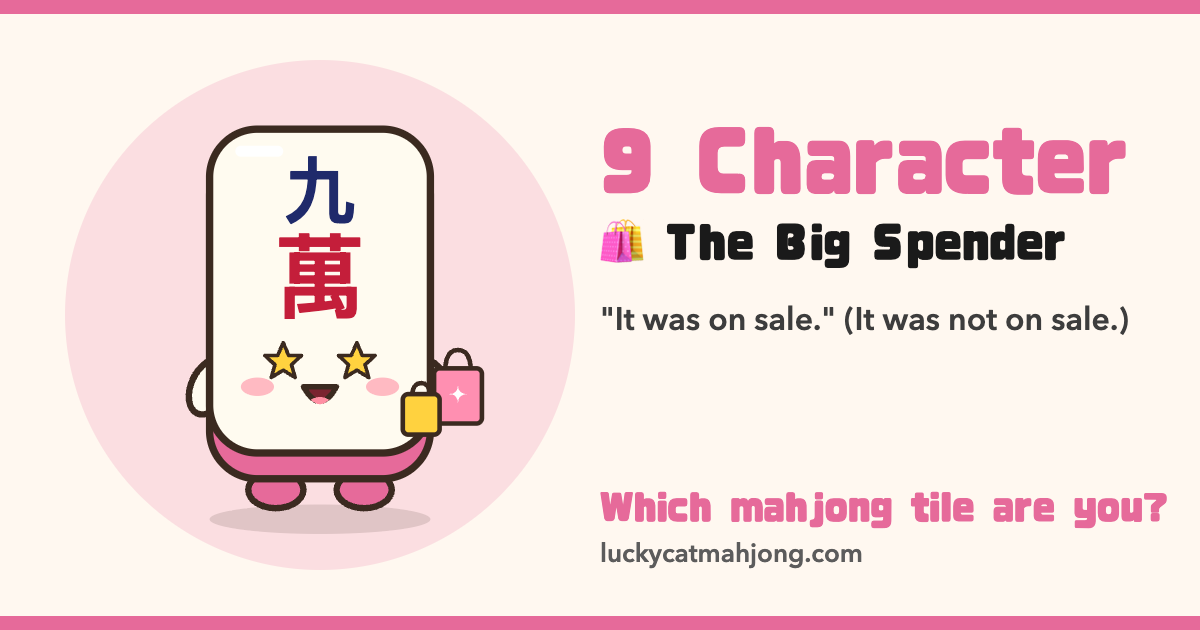
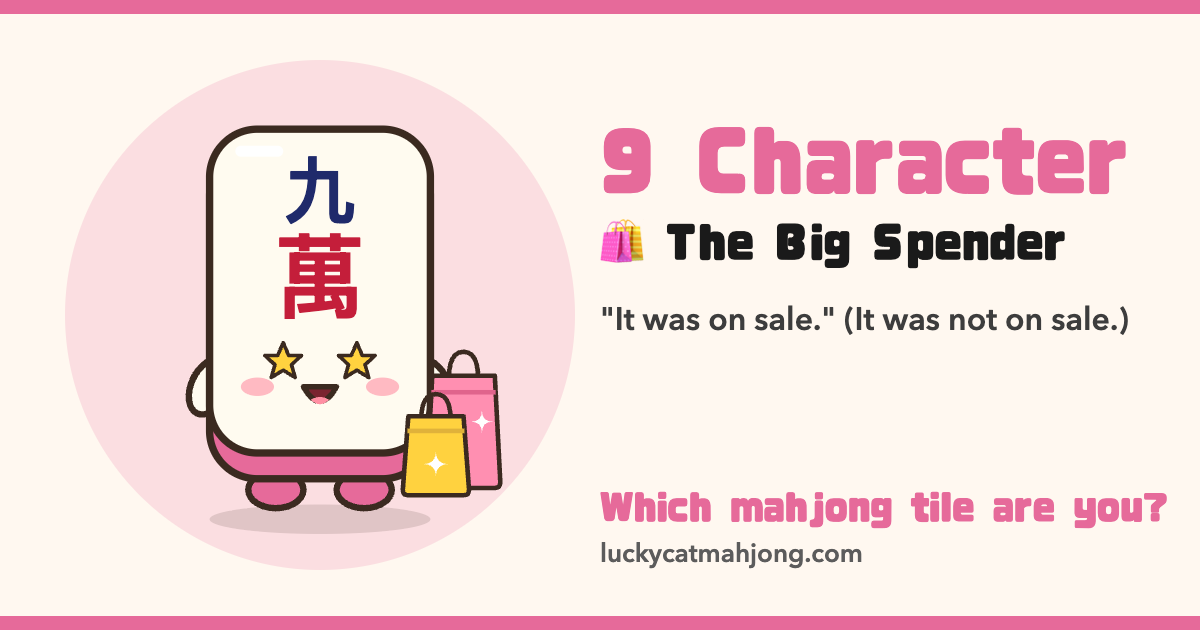
Redraw the Big Spender's shopping bags
Bigger tapered paper bags with folded tops and rope handles, standing
on the ground beside the tile, replace the small boxes floating at
its side, in the quiz art and the tile's link preview.

Changed region(s): [[0.3083, 0.5429, 0.4317, 0.8143]]

diff --git a/js/tile-quiz-art.js b/js/tile-quiz-art.js
@@ -334,11 +334,16 @@
         '<circle cx="120" cy="27" r="3" fill="#3FA34D" ' + stroke(1.5) + '/>';
     },
     shoppingBags: function () {
-      return '<path d="M168 156 Q168 144 175 144 Q182 144 182 156" fill="none" ' + stroke(2.5) + '/>' +
-        '<rect x="162" y="154" width="26" height="30" rx="3" fill="#FF8FB1" ' + stroke(2.5) + '/>' +
-        '<path d="M150 170 Q150 162 155 162 Q160 162 160 170" fill="none" ' + stroke(2.5) + '/>' +
-        '<rect x="145" y="168" width="20" height="22" rx="3" fill="#FFD23F" ' + stroke(2.5) + '/>' +
-        sparkle(175, 168, 5, '#fff');
+      // Two tapered paper bags with folded tops and rope handles, standing
+      // on the ground beside the tile.
+      return '<path d="M170 160 Q170 145 178 145 Q186 145 186 160" fill="none" ' + stroke(2.5) + '/>' +
+        '<path d="M161 158 H195 L198 216 Q198 219 195 219 H161 Q158 219 158 216Z" fill="#FF8FB1" ' + stroke(2.5) + '/>' +
+        '<path d="M160.5 167 H195.5" fill="none" stroke="#E0648C" stroke-width="2.5"/>' +
+        sparkle(188, 183, 6, '#fff') +
+        '<path d="M155 182 Q155 168 163 168 Q171 168 171 182" fill="none" ' + stroke(2.5) + '/>' +
+        '<path d="M148 180 H178 L181 220 Q181 223 178 223 H148 Q145 223 145 220Z" fill="#FFD23F" ' + stroke(2.5) + '/>' +
+        '<path d="M147.5 188 H178.5" fill="none" stroke="#E0B23A" stroke-width="2.5"/>' +
+        sparkle(163, 206, 7, '#fff');
     },
     boba: function () {
       return '<rect x="174" y="132" width="5" height="26" rx="2" fill="' + RED + '" ' + stroke(1.5) + ' transform="rotate(12 176 145)"/>' +
